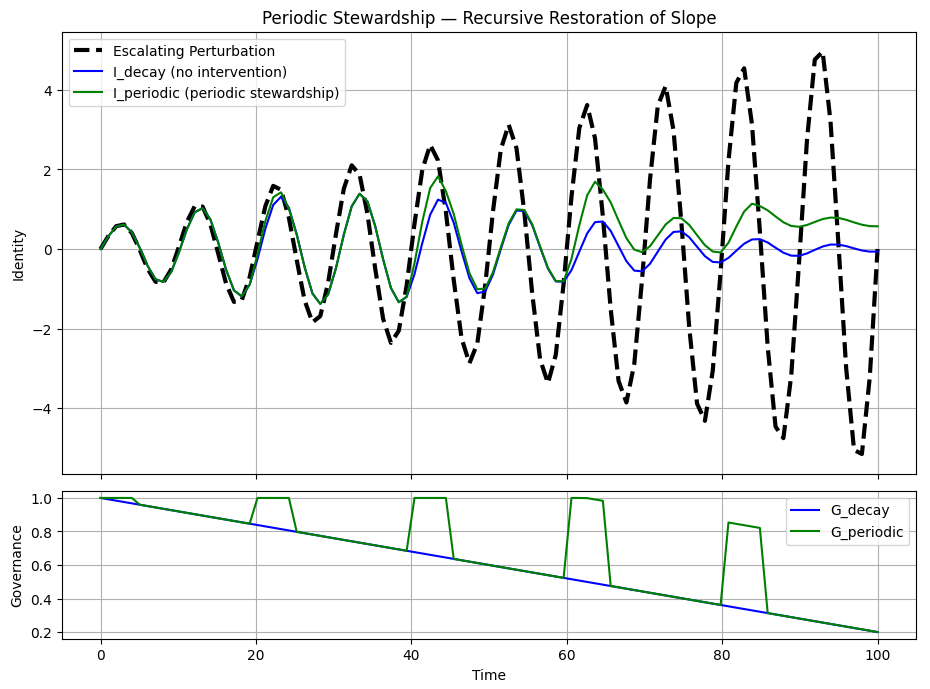
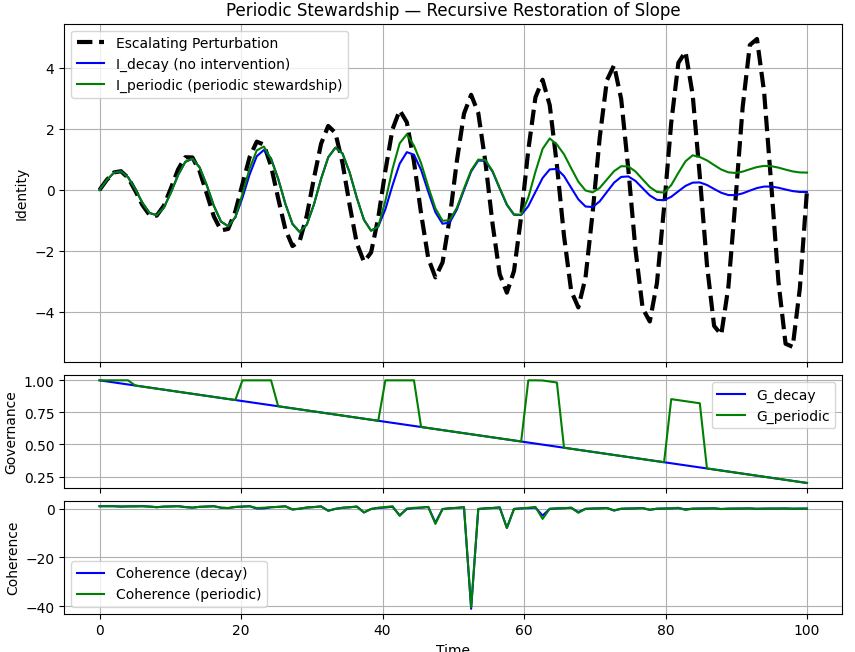
Add files via upload

Changed region(s): [[0.0, 0.0, 1.0, 1.0], [0.0304, 0.4601, 0.1216, 0.4908]]

diff --git a/principles/07_stewardship/Periodic_Stewardship_Debug.py b/principles/07_stewardship/Periodic_Stewardship_Debug.py
@@ -1,0 +1,150 @@
+import numpy as np
+import matplotlib.pyplot as plt
+
+# Time domain
+T = 100
+t = np.linspace(0, T, T)
+
+# Escalating perturbation
+def escalating_sinusoid(t, base_amp=0.5, growth=0.05, freq=0.1):
+    return (base_amp + growth * t) * np.sin(2 * np.pi * freq * t)
+
+# Decay profile
+def decay_profile(t, start=1.0, end=0.2):
+    return np.clip(start - (start - end) * (t / t[-1]), end, start)
+
+# Periodic governance boost
+def periodic_governance(t, interval=20, boost=0.5, pulse_width=10):
+    G = decay_profile(t)
+    for i in range(0, len(t), interval):
+        G[i:i+pulse_width] += boost
+    return np.clip(G, 0, 1)
+
+# Identity response
+def identity_response(P, M, C, G):
+    I = np.zeros_like(t)
+    for i in range(1, len(t)):
+        damping = M[i] * C[i] * G[i]
+        I[i] = I[i-1] + damping * (P[i] - I[i-1])
+    return I
+
+# Return fidelity metric — coherence over time
+epsilon = 1e-6
+def return_fidelity(I, P, window=10):
+    coherence = np.zeros_like(I)
+    for i in range(len(I) - window):
+        delta = np.abs(I[i+window] - I[i])
+        perturb = np.abs(P[i+window] - P[i])
+        coherence[i] = 1 - delta / (perturb + epsilon)
+    return np.clip(coherence, 0, 1)
+
+# Segment coherence by governance pulses
+def segment_coherence(I, P, pulse_starts, pulse_width):
+    segment_scores = []
+    for start in pulse_starts:
+        end = min(start + pulse_width, len(I))
+        delta_I = np.abs(I[end-1] - I[start])
+        delta_P = np.abs(P[end-1] - P[start])
+        score = 1 - delta_I / (delta_P + epsilon)
+        segment_scores.append(score)
+    return np.clip(segment_scores, 0, 1)
+
+# Inputs
+P = escalating_sinusoid(t)
+M = decay_profile(t)
+C = decay_profile(t)
+G_decay = decay_profile(t)
+G_periodic = periodic_governance(t)
+
+# Simulate identity
+I_decay = identity_response(P, M, C, G_decay)
+I_periodic = identity_response(P, M, C, G_periodic)
+
+# Coherence
+coherence_decay = return_fidelity(I_decay, P)
+coherence_periodic = return_fidelity(I_periodic, P)
+
+# Damping
+D_decay = M * C * G_decay
+D_periodic = M * C * G_periodic
+
+# Slope difference
+dI_decay = np.gradient(I_decay)
+dI_periodic = np.gradient(I_periodic)
+dP = np.gradient(P)
+slope_diff_decay = np.abs(dI_decay - dP)
+slope_diff_periodic = np.abs(dI_periodic - dP)
+
+# ΔI / ΔP ratio
+delta_I_decay = np.abs(np.gradient(I_decay))
+delta_I_periodic = np.abs(np.gradient(I_periodic))
+delta_P = np.abs(np.gradient(P))
+ratio_decay = delta_I_decay / (delta_P + epsilon)
+ratio_periodic = delta_I_periodic / (delta_P + epsilon)
+
+# Segment coherence
+pulse_starts = list(range(0, len(t), 20))
+segment_scores = segment_coherence(I_periodic, P, pulse_starts, pulse_width=10)
+
+# Plot all panels
+fig, axs = plt.subplots(6, 1, figsize=(14, 18), sharex=True)
+
+# Identity response
+axs[0].plot(t, P, 'k--', linewidth=2, label='Escalating Perturbation')
+axs[0].plot(t, I_decay, 'b', label='I_decay (no intervention)')
+axs[0].plot(t, I_periodic, 'g', label='I_periodic (stewardship)')
+axs[0].set_ylabel("Identity")
+axs[0].set_title("Identity Response")
+axs[0].legend()
+axs[0].grid(True)
+
+# Governance
+axs[1].plot(t, G_decay, 'b', label='G_decay')
+axs[1].plot(t, G_periodic, 'g', label='G_periodic')
+axs[1].set_ylabel("Governance")
+axs[1].set_title("Governance Profiles")
+axs[1].legend()
+axs[1].grid(True)
+
+# Coherence with pulse annotations
+axs[2].plot(t, coherence_decay, 'b', label='Coherence (decay)')
+axs[2].plot(t, coherence_periodic, 'g', label='Coherence (periodic)')
+for start in pulse_starts:
+    axs[2].axvspan(start, start+10, color='green', alpha=0.1)
+axs[2].set_ylabel("Coherence")
+axs[2].set_title("Return Fidelity with Pulse Intervals")
+axs[2].legend()
+axs[2].grid(True)
+
+# ΔI / ΔP ratio
+axs[3].plot(t, ratio_decay, 'b', label='ΔI/ΔP (decay)')
+axs[3].plot(t, ratio_periodic, 'g', label='ΔI/ΔP (periodic)')
+axs[3].set_ylabel("ΔI / ΔP")
+axs[3].set_title("Modulation Ratio: Identity vs Perturbation")
+axs[3].legend()
+axs[3].grid(True)
+
+# Damping
+axs[4].plot(t, D_decay, 'b', label='Damping (decay)')
+axs[4].plot(t, D_periodic, 'g', label='Damping (periodic)')
+axs[4].set_ylabel("Damping")
+axs[4].set_title("Effective Damping Over Time")
+axs[4].legend()
+axs[4].grid(True)
+
+# Slope difference
+axs[5].plot(t, slope_diff_decay, 'b', label='Slope Δ (decay)')
+axs[5].plot(t, slope_diff_periodic, 'g', label='Slope Δ (periodic)')
+axs[5].set_ylabel("Slope Δ")
+axs[5].set_xlabel("Time")
+axs[5].set_title("Slope Difference: Identity vs Perturbation")
+axs[5].legend()
+axs[5].grid(True)
+
+plt.tight_layout()
+plt.show()
+
+# Print segmented coherence scores
+print("Segmented Coherence Scores (Periodic):")
+for i, score in enumerate(segment_scores):
+    print(f"Pulse {i+1}: {score:.3f}")

diff --git a/principles/07_stewardship/Periodic_Stewardship_Simulation.py b/principles/07_stewardship/Periodic_Stewardship_Simulation.py
@@ -28,6 +28,23 @@ def identity_response(P, M, C, G):
         I[i] = I[i-1] + damping * (P[i] - I[i-1])
     return I
 
+# Return fidelity metric — coherence over time
+epsilon = 1e-6
+def return_fidelity(I, P, window=10):
+    coherence = np.zeros_like(I)
+    for i in range(len(I) - window):
+        delta = np.abs(I[i+window] - I[i])
+        perturb = np.abs(P[i+window] - P[i])
+        coherence[i] = 1 - delta / (perturb + epsilon)
+    return np.clip(coherence, 0, 1)
+
+# Coherence metric — slope fidelity
+epsilon = 1e-6
+def slope_coherence(I, P):
+    dI = np.gradient(I)
+    dP = np.gradient(P)
+    return 1 - np.abs(dI - dP) / (np.abs(dP) + epsilon)
+
 # Inputs
 P = escalating_sinusoid(t)
 M = decay_profile(t)
@@ -39,10 +56,14 @@ G_periodic = periodic_governance(t)
 I_decay = identity_response(P, M, C, G_decay)
 I_periodic = identity_response(P, M, C, G_periodic)
 
-# Plot with subplots
-fig, (ax1, ax2) = plt.subplots(2, 1, figsize=(10, 8), sharex=True, gridspec_kw={'height_ratios': [3, 1]})
+# Coherence
+coherence_decay = slope_coherence(I_decay, P)
+coherence_periodic = slope_coherence(I_periodic, P)
 
-# Top plot: Identity response
+# Plot with subplots
+fig, (ax1, ax2, ax3) = plt.subplots(3, 1, figsize=(10, 10), sharex=True, gridspec_kw={'height_ratios': [3, 1, 1]})
+
+# Identity response
 ax1.plot(t, P, 'k--', linewidth=3, label='Escalating Perturbation')
 ax1.plot(t, I_decay, 'b', label='I_decay (no intervention)')
 ax1.plot(t, I_periodic, 'g', label='I_periodic (periodic stewardship)')
@@ -51,13 +72,20 @@ ax1.set_title("Periodic Stewardship — Recursive Restoration of Slope")
 ax1.legend()
 ax1.grid(True)
 
-# Bottom plot: Governance profiles
+# Governance profiles
 ax2.plot(t, G_decay, 'b', label='G_decay')
 ax2.plot(t, G_periodic, 'g', label='G_periodic')
 ax2.set_ylabel("Governance")
-ax2.set_xlabel("Time")
 ax2.legend()
 ax2.grid(True)
+
+# Coherence metric
+ax3.plot(t, coherence_decay, 'b', label='Coherence (decay)')
+ax3.plot(t, coherence_periodic, 'g', label='Coherence (periodic)')
+ax3.set_ylabel("Coherence")
+ax3.set_xlabel("Time")
+ax3.legend()
+ax3.grid(True)
 
 plt.tight_layout()
 plt.show()
